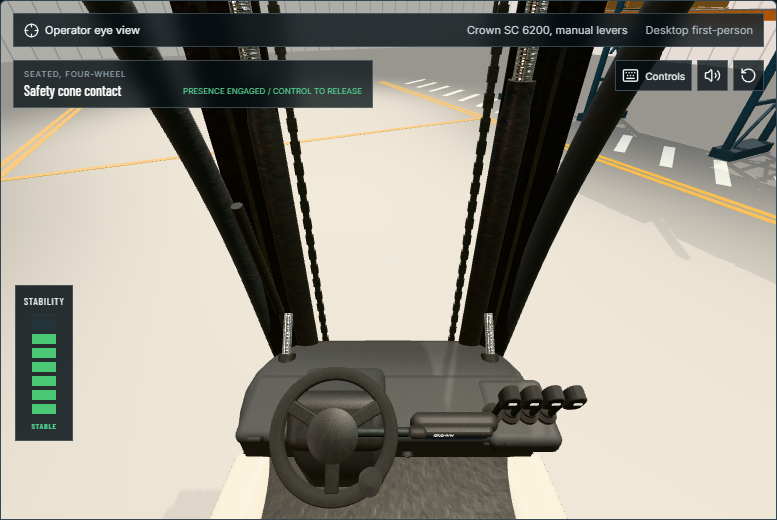
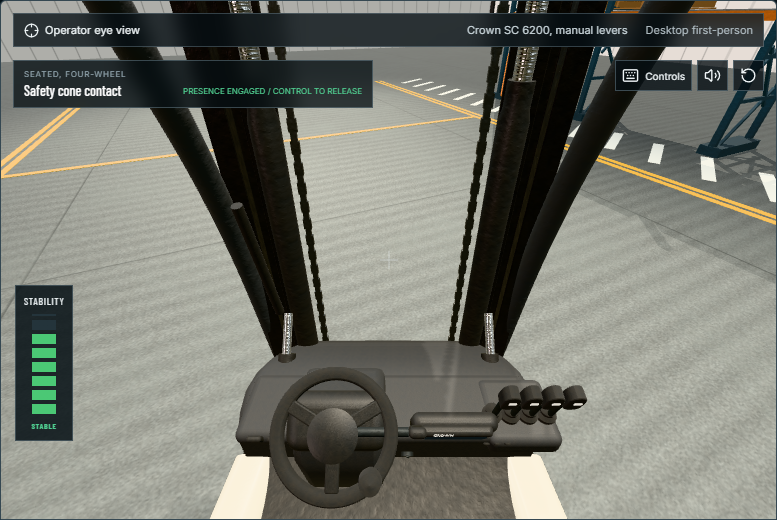
Refactor code structure for improved readability and maintainability

diff --git a/src/sim/loadPhysics.js b/src/sim/loadPhysics.js
@@ -6,6 +6,16 @@ import * as THREE from 'three'
 
 const EPSILON = 1e-7
 const DEG = Math.PI / 180
+const POUND = .45359237
+
+// Pallet weights are authored in pounds; `referenceMass` is the mass at which a
+// shoved load moves at roughly half the truck's rate. An empty pallet skitters,
+// a 2400 lb load barely shifts.
+const PALLET_PUSH = Object.freeze({
+  referenceMass: 520,
+  maxEfficiency: .85,
+  minEfficiency: .1,
+})
 
 export const DEFAULT_TRUCK_COLLIDER = Object.freeze({
   id: 'truck-body',
@@ -659,11 +669,67 @@ export class WarehouseLoadPhysics {
     }
   }
 
+  // A pallet on the floor is not a bollard. Pressing a truck into one shoves it,
+  // scrubbing across the concrete: it never keeps up with the truck, it stops
+  // the instant the truck does, and a heavy load barely moves at all. Modeled as
+  // displacement while in contact rather than as an impulse, because friction
+  // between wood and sealed concrete is high enough that a shoved pallet has no
+  // meaningful coast -- and because displacement cannot jitter.
+  pushEfficiency(body) {
+    const mass = (body.weight || 0) * POUND
+    const ratio = PALLET_PUSH.referenceMass / (PALLET_PUSH.referenceMass + mass)
+    return THREE.MathUtils.clamp(ratio, PALLET_PUSH.minEfficiency, PALLET_PUSH.maxEfficiency)
+  }
+
+  pushBlockingPallets(result, from, to) {
+    const dx = to.x - from.x
+    const dz = to.z - from.z
+    const distance = Math.hypot(dx, dz)
+    if (distance < 1e-5) return false
+    const remaining = distance * (1 - result.fraction)
+    if (remaining < 1e-5) return false
+    let moved = false
+    for (const contact of result.blockingContacts) {
+      const palletId = contact.obstacle.palletId
+      if (!palletId) continue
+      const body = this.pallets.find((candidate) => candidate.id === palletId)
+      // Racked loads stay put: nudging a beam-level pallet with the mast should
+      // be scored as a rack strike, not turned into a shoving match.
+      if (!body || body === this.carried || body.status !== 'floor') continue
+      const step = remaining * this.pushEfficiency(body)
+      if (step < 1e-5) continue
+      setWorldPose(body.object, {
+        x: body.pose.x + (dx / distance) * step,
+        y: body.pose.y,
+        z: body.pose.z + (dz / distance) * step,
+        yaw: body.pose.yaw,
+      })
+      body.pose = worldPose(body.object)
+      body.obstacleCache = null
+      body.pushedDistance = (body.pushedDistance || 0) + step
+      moved = true
+      this.onEvent({
+        type: 'load-pushed',
+        severity: 'major',
+        label: 'Load pushed across the floor instead of carried',
+        pallet: body,
+        obstacle: contact.obstacle,
+        distance: body.pushedDistance,
+      })
+    }
+    return moved
+  }
+
   resolveTruckMotion(previousPose, proposedPose, options = {}) {
     const colliders = [...this.truckColliders]
     const carried = this.carriedCollider()
     if (carried) colliders.push(carried)
-    const result = sweepPose(previousPose, proposedPose, colliders, this.activeObstacles(), options)
+    let result = sweepPose(previousPose, proposedPose, colliders, this.activeObstacles(), options)
+    // If the block was a floor pallet, shove it and re-solve so the truck
+    // advances into the space it just cleared.
+    if (result.blocked && this.pushBlockingPallets(result, previousPose, proposedPose)) {
+      result = sweepPose(previousPose, proposedPose, colliders, this.activeObstacles(), options)
+    }
     const currentContactIds = new Set(result.contacts.map((contact) => contact.obstacle.id))
     for (const contact of result.contacts) {
       const registeredObstacle = this.obstacles.find((candidate) => candidate.id === contact.obstacle.id)
@@ -904,6 +970,7 @@ export class WarehouseLoadPhysics {
       body.truckLocal = null
       body.wasClear = false
       body.obstacleCache = null
+      body.pushedDistance = 0
     }
   }
 }

diff --git a/src/components/Simulator.jsx b/src/components/Simulator.jsx
@@ -426,6 +426,10 @@ const Simulator = forwardRef(function Simulator({ profile, onTelemetry, onSafety
         } else if (event.type === 'cone-contact') {
           fireEvent('cone-contact', 'Safety cone struck', 'major', 8, 2500)
           setActiveControl('Safety cone contact')
+        } else if (event.type === 'load-pushed') {
+          // Fires while contact persists, so the cooldown does the throttling.
+          fireEvent('load-pushed', `Load pushed ${event.distance.toFixed(1)} m across the floor instead of carried`, 'major', 8, 6000)
+          setActiveControl('Pushing load across the floor')
         } else if (event.type === 'load-contact') {
           fireEvent('load-contact', 'Hard contact with palletized load', 'major', 10, 2500)
           setActiveControl('Pallet contact')

diff --git a/src/sim/warehouse.js b/src/sim/warehouse.js
@@ -582,6 +582,13 @@ function loadFacilityShell(scene, fallbackShell) {
       // pass, so the model's floor is dropped rather than z-fighting with it.
       if (/^Floor_Object/i.test(object.name)) object.visible = false
     })
+    // The model's slab sits at exactly y = 0.000 -- the same plane as our floor's
+    // top face -- and its stair trim and door thresholds sit within 2 mm of it.
+    // Coplanar surfaces z-fight, which is what made the floor shimmer. Dropping
+    // the whole shell 3 cm puts every one of those surfaces cleanly underneath
+    // instead of tied with it; walls and columns just start fractionally lower,
+    // which is invisible.
+    gltf.scene.position.y = -.03
     scene.add(gltf.scene)
     if (fallbackShell) {
       scene.remove(fallbackShell)

diff --git a/docs/simulation-model.md b/docs/simulation-model.md
@@ -104,10 +104,19 @@ the floor to infinity — the entire rack face was a solid wall, so a trainee co
 never enter a bay or judge an approach. Pedestrians had no collider at all and
 could be driven straight through.
 
+A pallet on the floor is not a bollard. Pressing a truck into one shoves it
+across the concrete, modeled as displacement while in contact rather than as an
+impulse: friction between wood and sealed concrete is high enough that a shoved
+load has no meaningful coast, it stops the instant the truck does, and it never
+quite keeps up. Resistance scales with load — an empty pallet skitters, a
+2400 lb load barely shifts. Racked loads are excluded, because nudging a
+beam-level pallet with the mast is a rack strike, not a shoving match. Pushing
+is scored, since carrying is the correct technique.
+
 **Limits.** Kinematic sweep with a binary search on first contact, not impulse
-resolution. Loads are rigid and do not shift, slip, or topple on the forks.
-Racks do not deflect or fail; a strike is scored, not simulated. Cones are the
-only knockable object.
+resolution. Pushed loads translate but do not rotate, tip, or spill, and loads
+on the forks are rigid — they do not shift or slip. Racks do not deflect or
+fail; a strike is scored, not simulated.
 
 ## Verification
 
